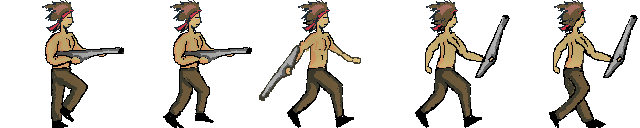
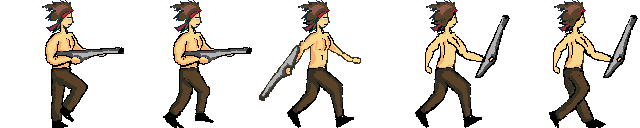
probando sin update en sprite

diff --git a/ViewClass-Beta/src/Player.cpp b/ViewClass-Beta/src/Player.cpp
@@ -53,14 +53,6 @@ void Player::update(){
 				if(maxDistanceJump == 150) 	state = STATE_STADING;
 
 				break;
-		case STATE_WALKINGlEFT:
-				pos_x -= 5 ;
-				state=STATE_STADING;
-				break;
-		case STATE_WALKINGRIGHT:
-				pos_x += 5 ;
-				state=STATE_STADING;
-				break;
 		default:
 				break;
 	}
@@ -73,12 +65,16 @@ void Player::walkLeft(){
 
 	if(state != STATE_JUMPINGUP && state != STATE_JUMPINGDOWN ){
 		state = STATE_WALKINGlEFT;
+		animations[state]->update();
+		pos_x -= 5 ;
 	}
 }
 void Player::walkRight(){
 
 	if(state != STATE_JUMPINGUP && state != STATE_JUMPINGDOWN ){
 		state = STATE_WALKINGRIGHT;
+		animations[state]->update();
+		pos_x += 5 ;
 	}
 }
 void Player::pointUP(){

diff --git a/ViewClass-Beta/src/Sprite.cpp b/ViewClass-Beta/src/Sprite.cpp
@@ -27,8 +27,6 @@ Sprite::~Sprite() {}
 
 void Sprite::render(int x, int y){
 	view->draw(texture,&src,x,y,destinationWidth,destinationHeight);
-
-	if(!manualMode ) this->update();
 }
 void Sprite::update(){
 	src.x = src.x + src.w;
